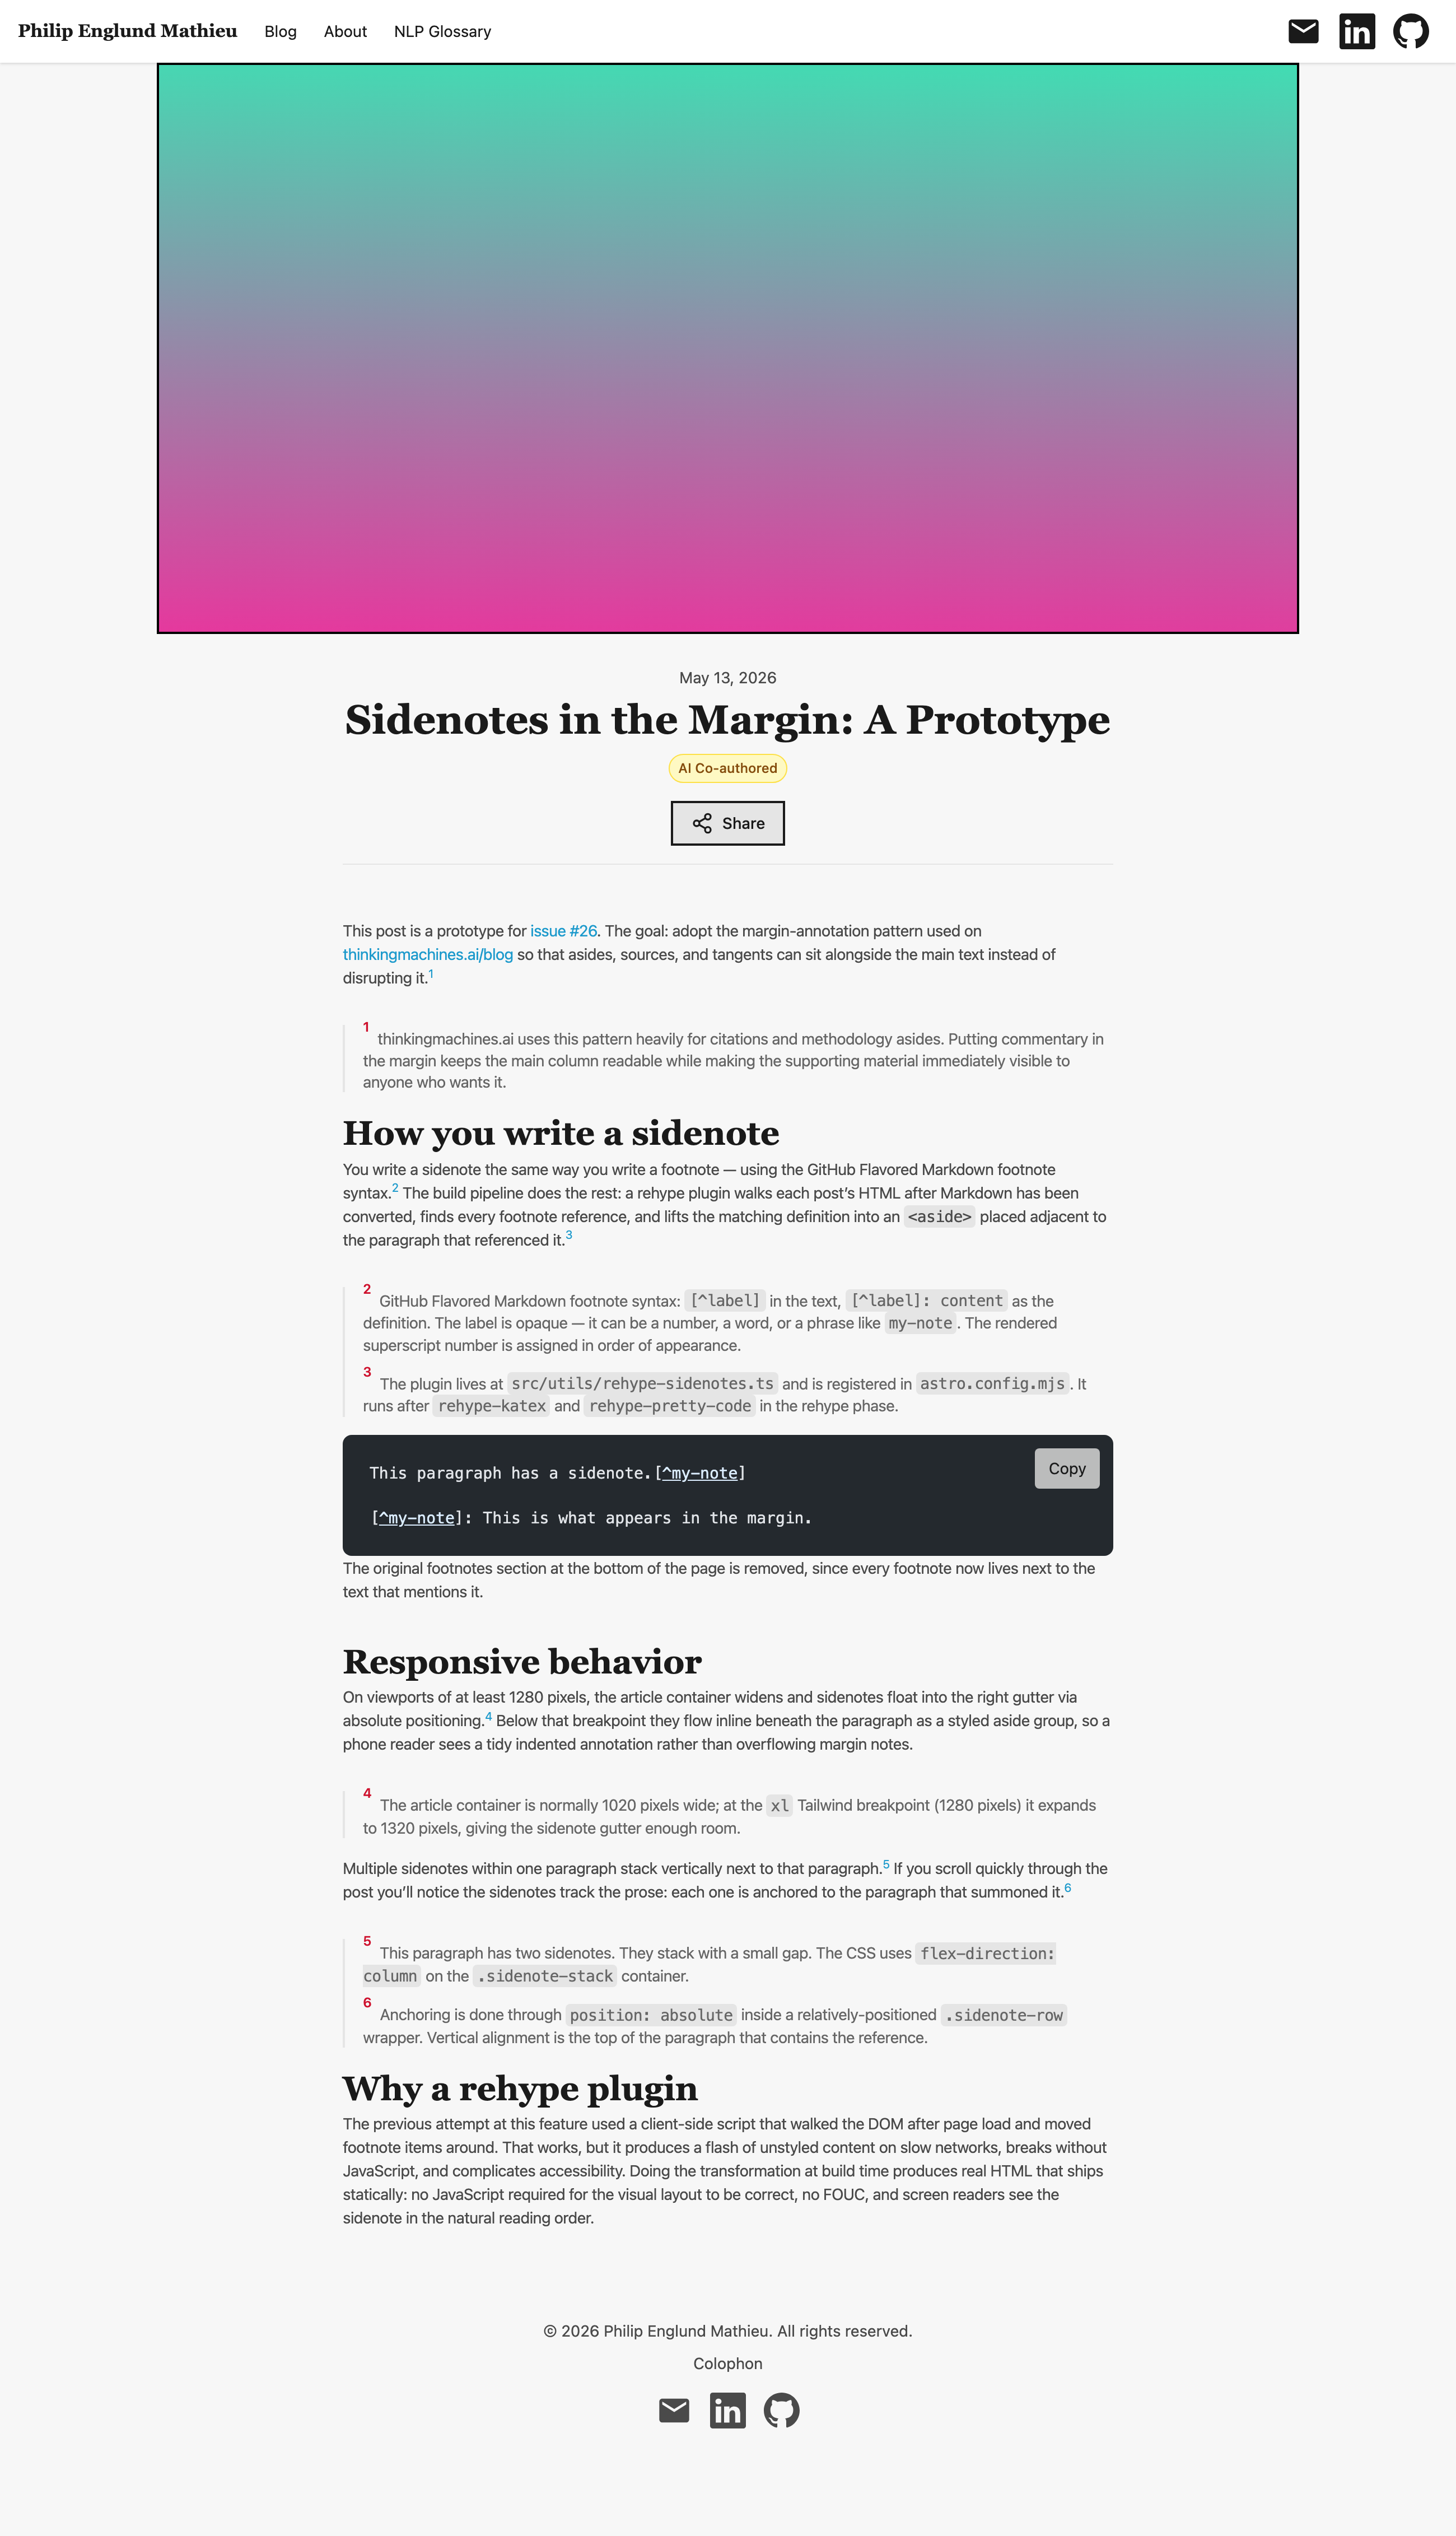
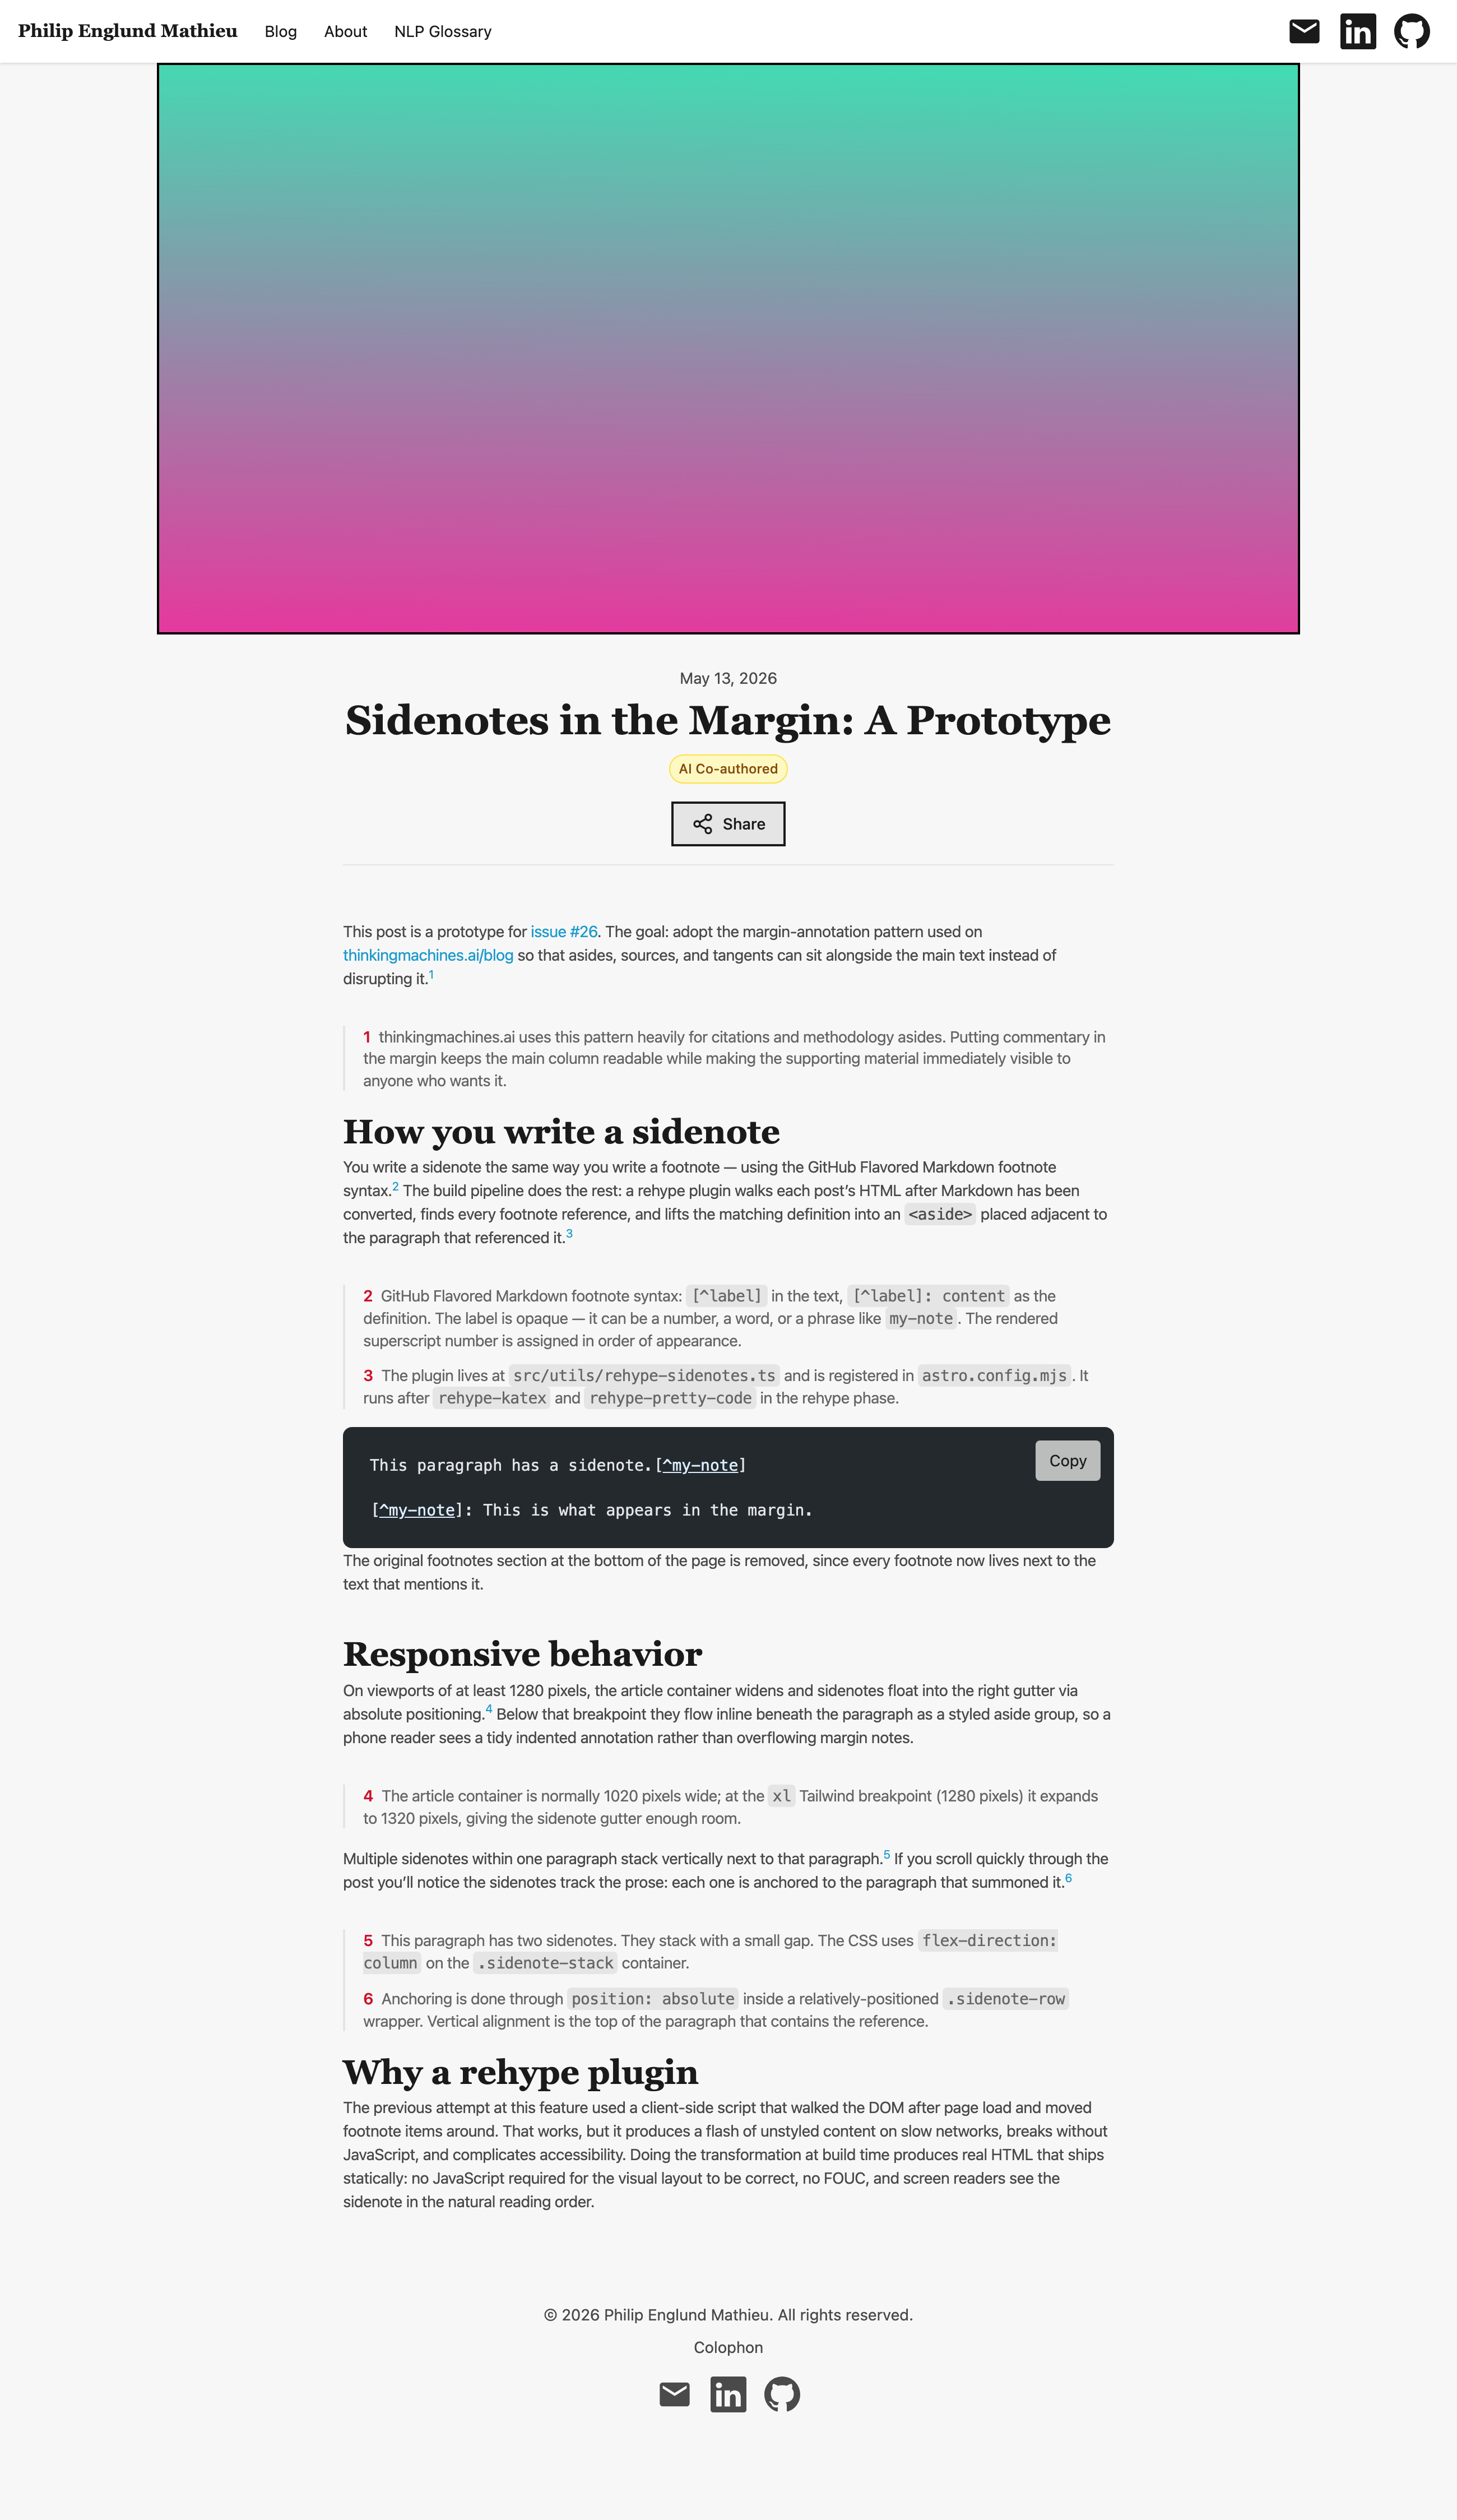
style(sidenotes): drop <sup> for note numbers, baseline + color is enough
The number element no longer needs to be superscripted in the
margin — it's distinguishable as the leading marker via its red
color and semibold weight alone. Switch the emitted tag from <sup>
to <span> and drop the corresponding CSS (text-xs + align-super)
so numbers sit on the baseline at body font-size. Refs in the prose
keep their existing <sup> (rendered by GFM, unchanged).

Screenshots refreshed at all three viewports.

diff --git a/astro-site/src/styles/global.css b/astro-site/src/styles/global.css
@@ -290,7 +290,7 @@
 	}
 
 	.sidenote-number {
-		@apply text-xs font-sans font-semibold text-primary-500 mr-1 align-super;
+		@apply font-sans font-semibold text-primary-500 mr-1;
 	}
 
 	.prose .sidenote a {

diff --git a/astro-site/src/utils/rehype-sidenotes.ts b/astro-site/src/utils/rehype-sidenotes.ts
@@ -72,7 +72,7 @@ function buildSidenote(ref: Element, item: Element, sidenoteId: string): Element
 	const numberMark: ElementContent[] = [
 		{
 			type: 'element',
-			tagName: 'sup',
+			tagName: 'span',
 			properties: { className: ['sidenote-number'] },
 			children: [{ type: 'text', value: label }],
 		} as Element,